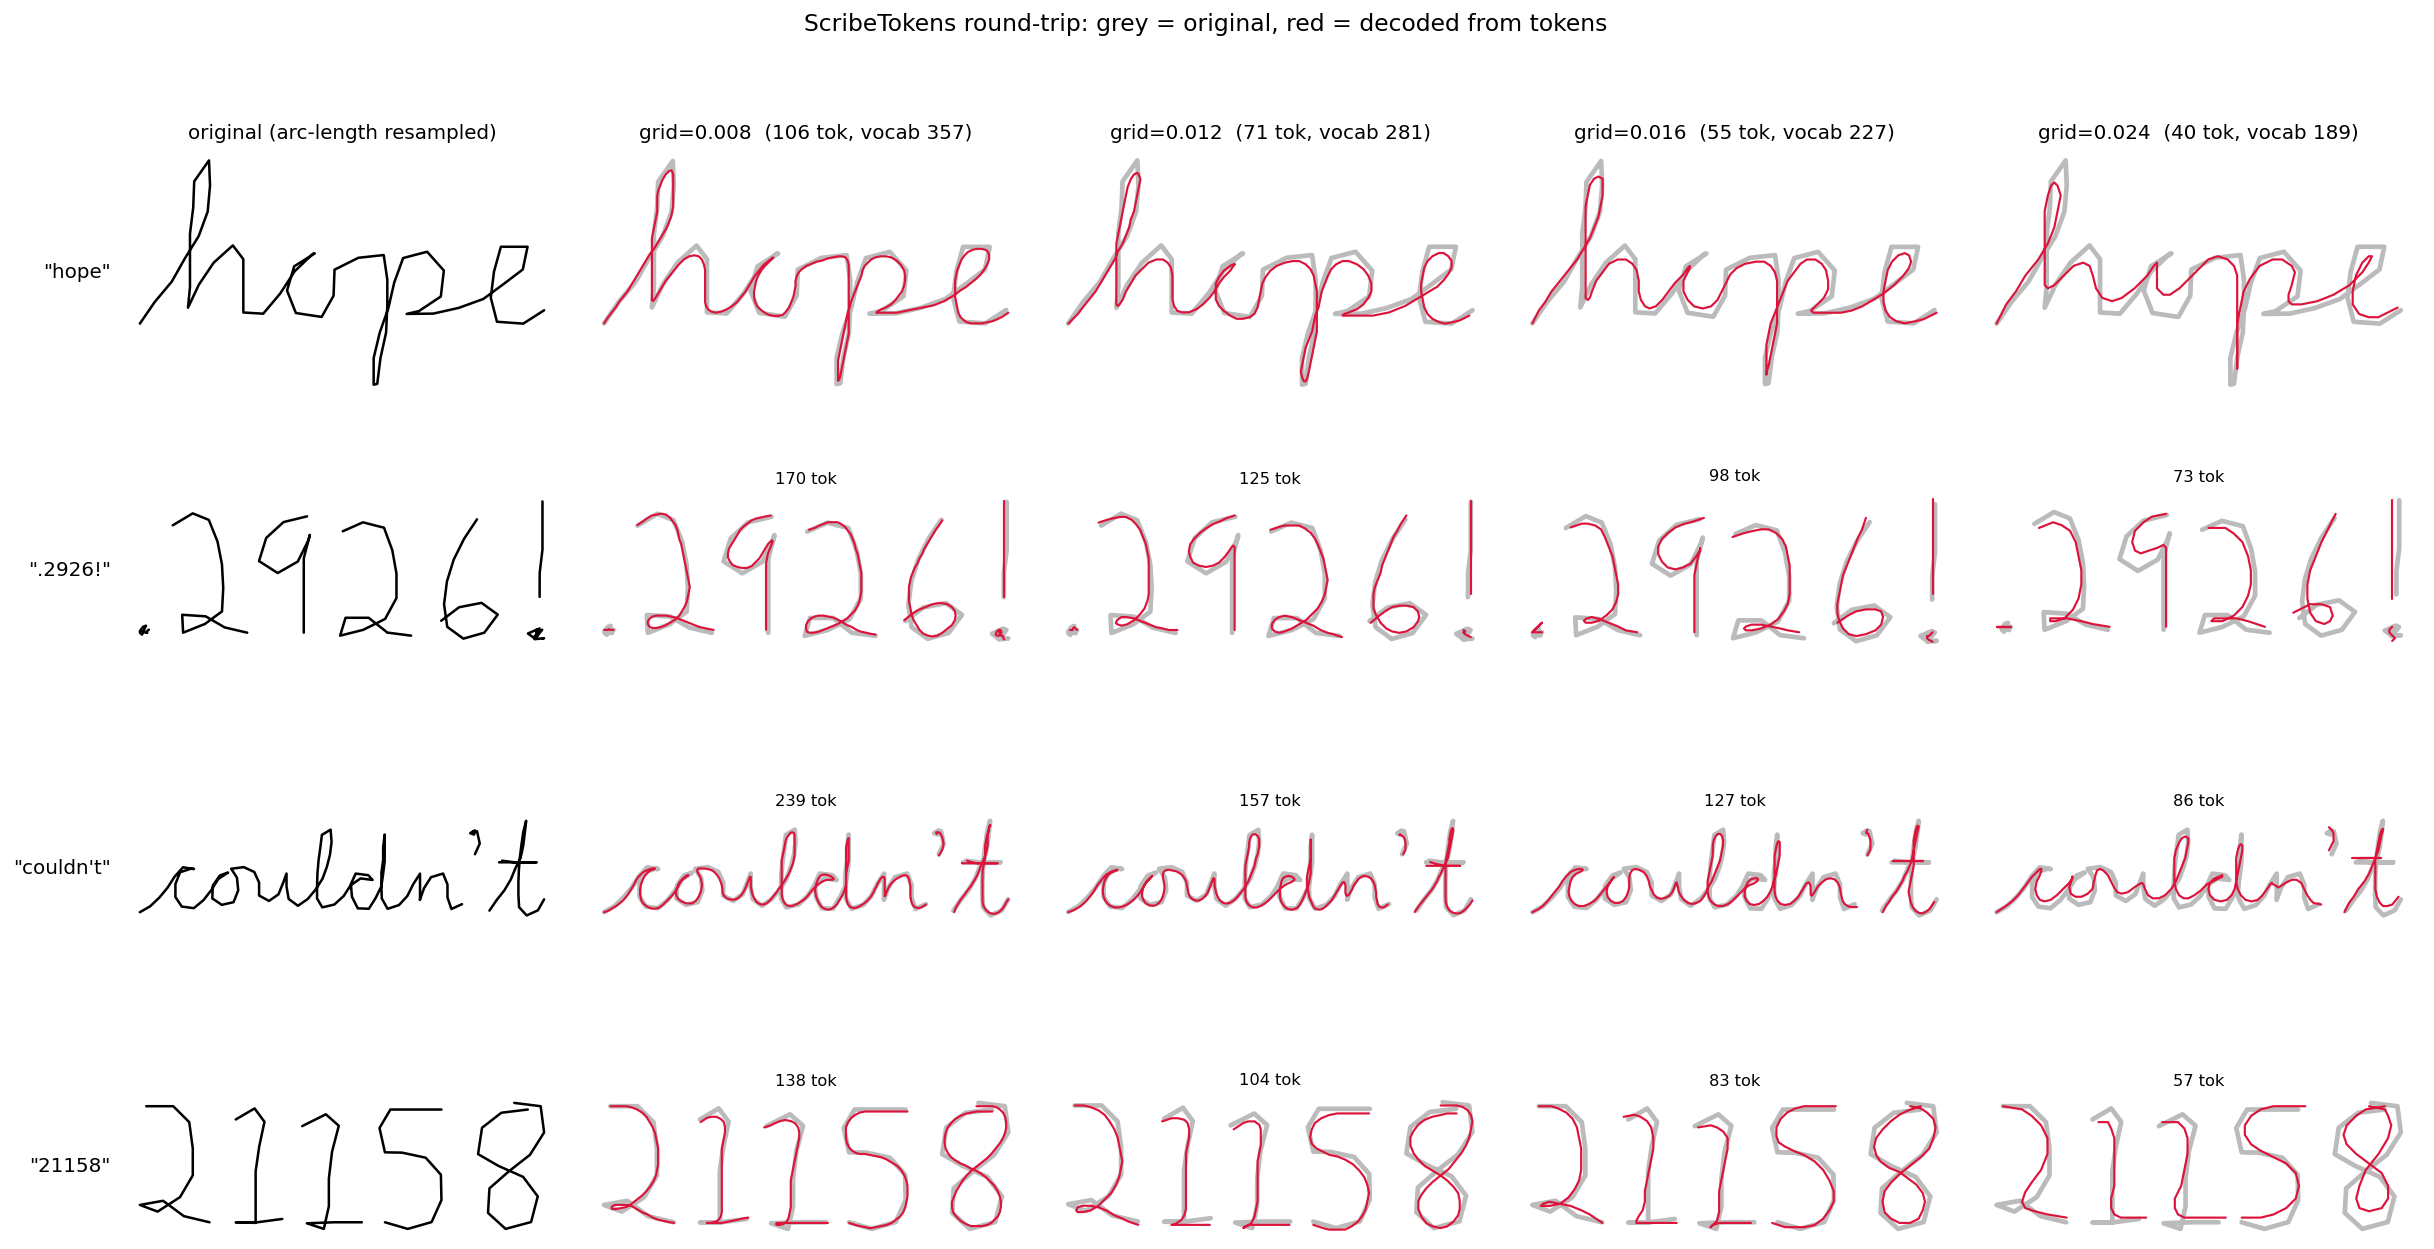
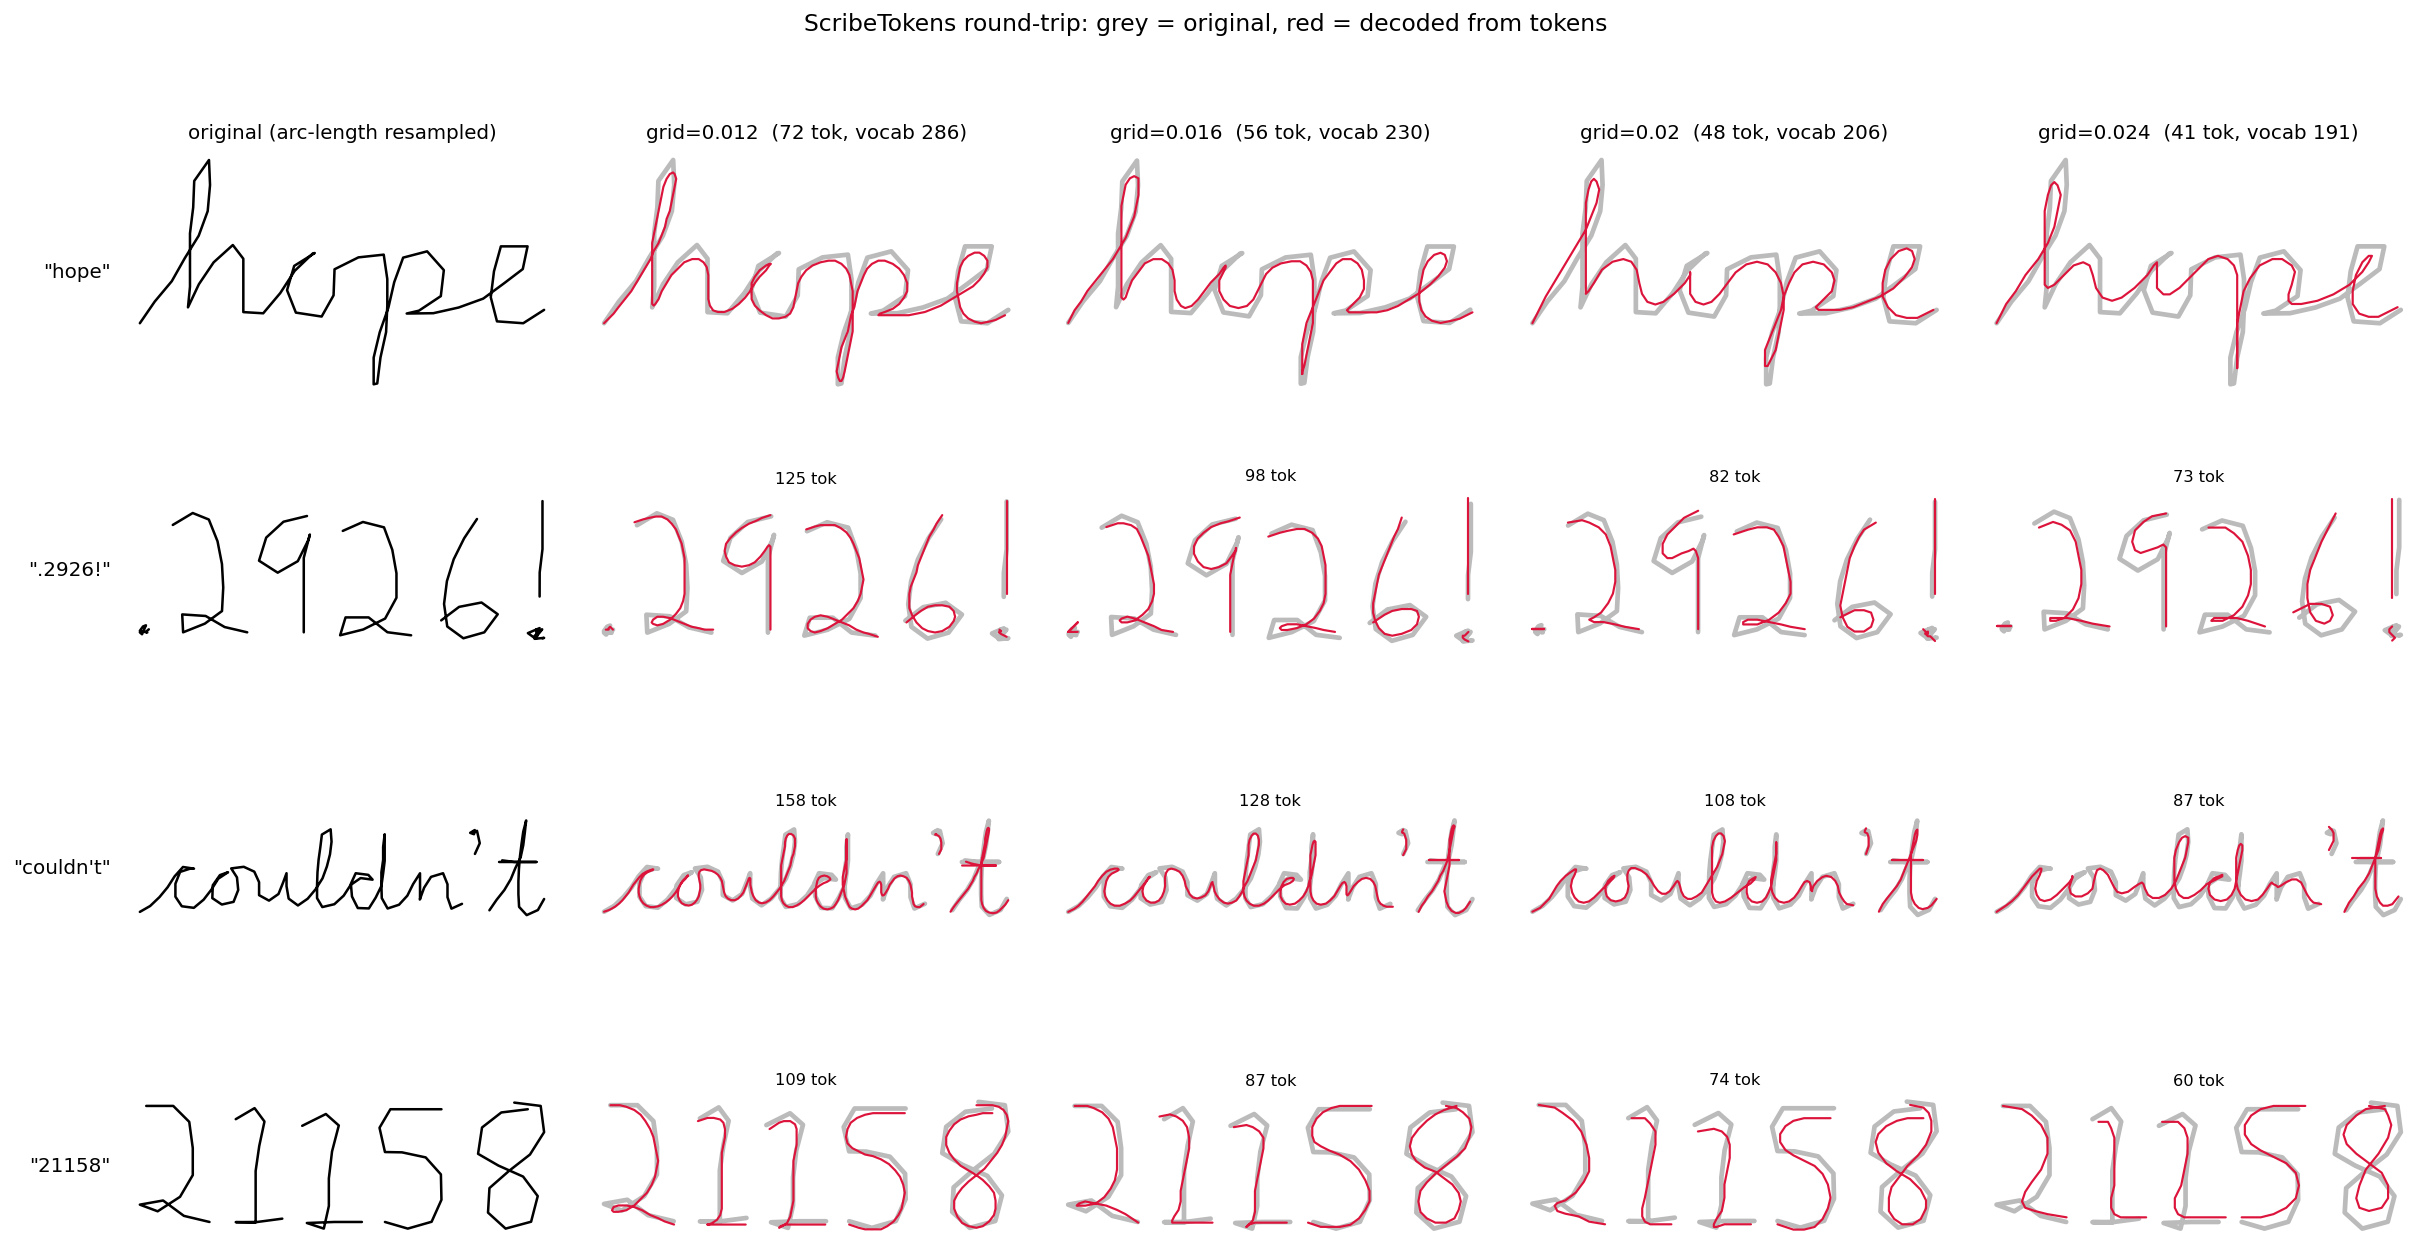
Default to a coarser tokenizer grid
Swept grid against both axes that matter. Reconstruction error degrades
gracefully with coarseness -- 0.0039 at grid 0.012, 0.0061 at 0.020,
0.0095 at 0.032 -- while tokens per word fall from 128 to 90 to 62. A
pen stroke is about 0.01 wide at this ink scale, so 0.020 stays well
inside the width of the line it is drawing.

Rendering agrees with the number: at 0.020 letter shapes and loops are
intact, and degradation only becomes visible at 0.024 and beyond.

At 0.020 a word costs 99 tokens against 128, so the default block now
holds five words instead of three.

Judging grid by bits/pen-point alone would have picked something coarser
still: that metric improves monotonically with grid size, since a
coarser grid emits fewer and more predictable tokens per point even as
the ink visibly degrades. Fidelity has to be scored alongside it.

diff --git a/pengpt/config.py b/pengpt/config.py
@@ -16,7 +16,7 @@ class DataConfig:
     max_words: int = 8
     max_seq_length: int = 512
     max_text_length: int = 50
-    grid: float = 0.012
+    grid: float = 0.020
     n_merges: int = 512
     augment: bool = True
     spacing: float = 0.0
